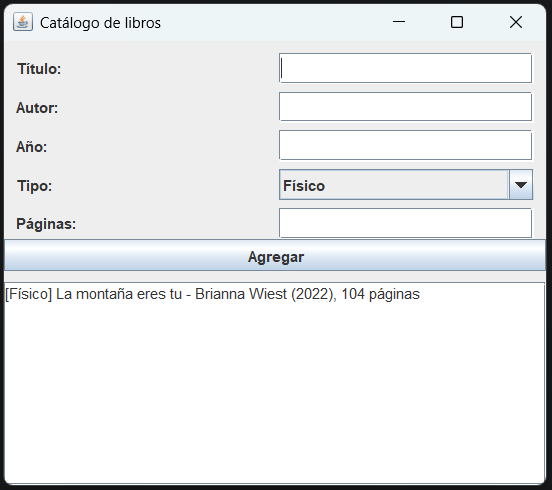
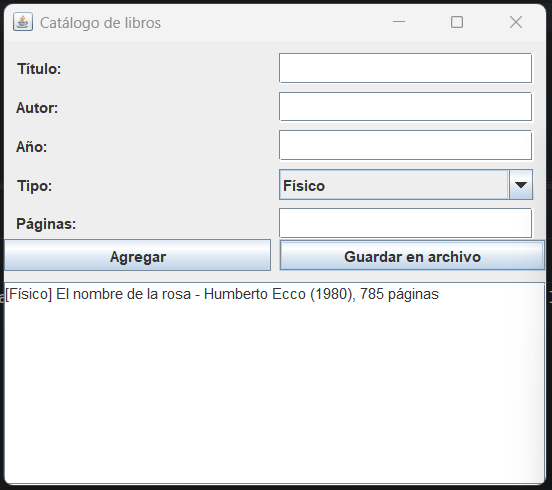
Actualiza README y captura con el botón Guardar en archivo

diff --git a/README.md b/README.md
@@ -5,7 +5,7 @@
 
 ## Descripción
 
-Aplicación de escritorio en Java con Swing que registra libros físicos y digitales en un catálogo que vive en memoria. Valida los datos ingresados y muestra mensajes claros en español cuando algo está mal.
+Aplicación de escritorio en Java con Swing que registra libros físicos y digitales en un catálogo que vive en memoria. Valida los datos ingresados y muestra mensajes claros en español cuando algo está mal. Además permite guardar el catálogo en un archivo de texto con el botón **Guardar en archivo**.
 
 ![Ventana del catálogo](captura.png)
 
@@ -32,6 +32,10 @@ La clase `Catalogo` no importa nada de Swing y `VentanaCatalogo` no contiene reg
 - El año debe ser un número entre 1450 y el año actual.
 - Si el año no es numérico, se atrapa `NumberFormatException` y se muestra un mensaje amable.
 - Si el año está fuera de rango, el dominio lanza `DatoInvalidoException`.
+
+## Guardar en archivo
+
+El botón **Guardar en archivo** abre un selector de ubicación y escribe una línea por libro en un archivo de texto (UTF-8). La escritura está en `Catalogo.guardarEnArchivo`, que usa `try-with-resources` para cerrar el archivo aunque ocurra un error. Si el catálogo está vacío o el disco falla, la ventana muestra un mensaje claro en español.
 
 ## Cómo ejecutarlo
 
